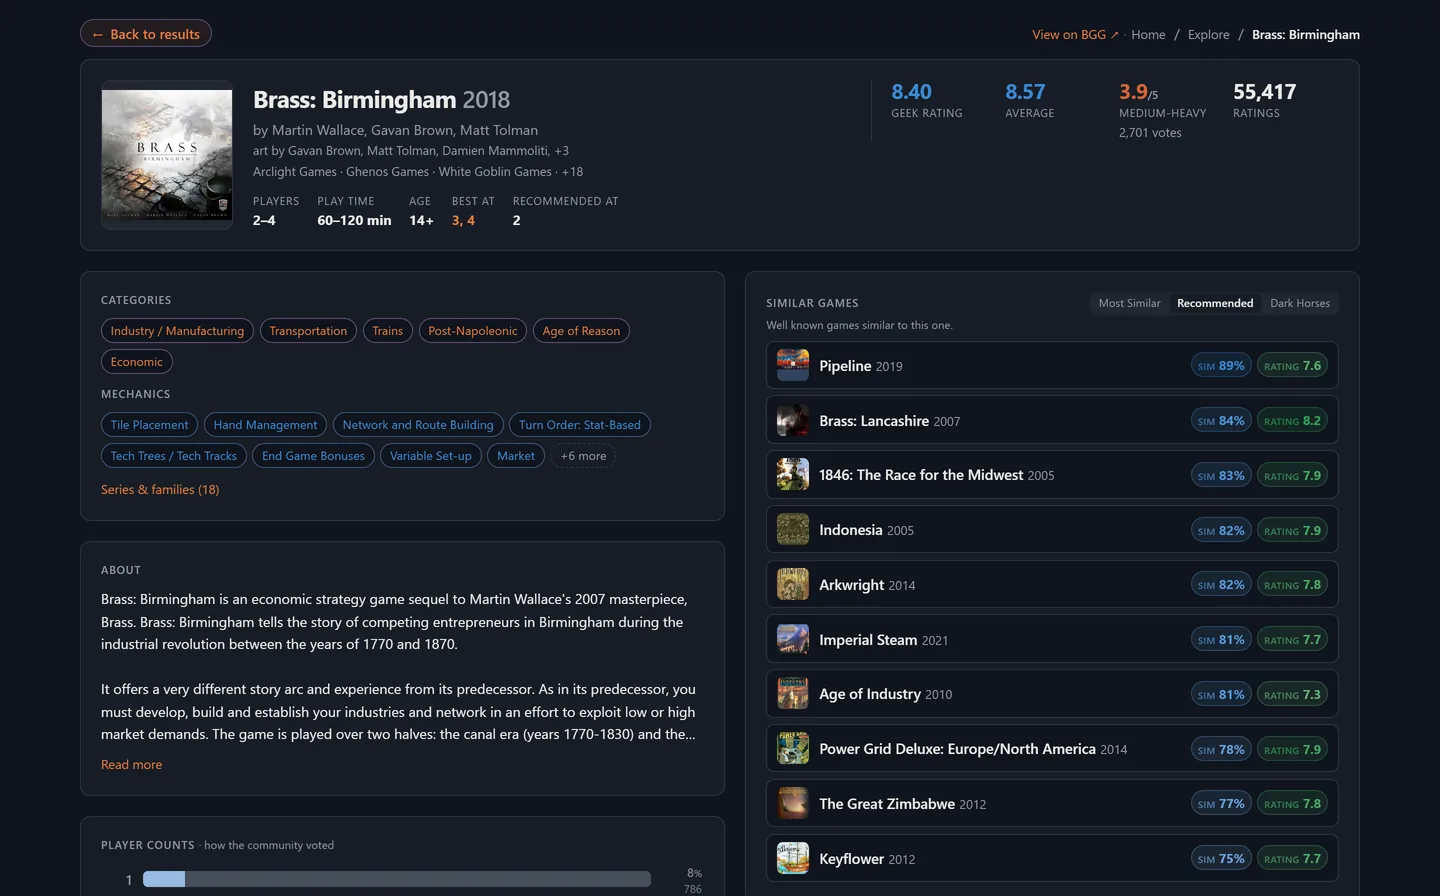
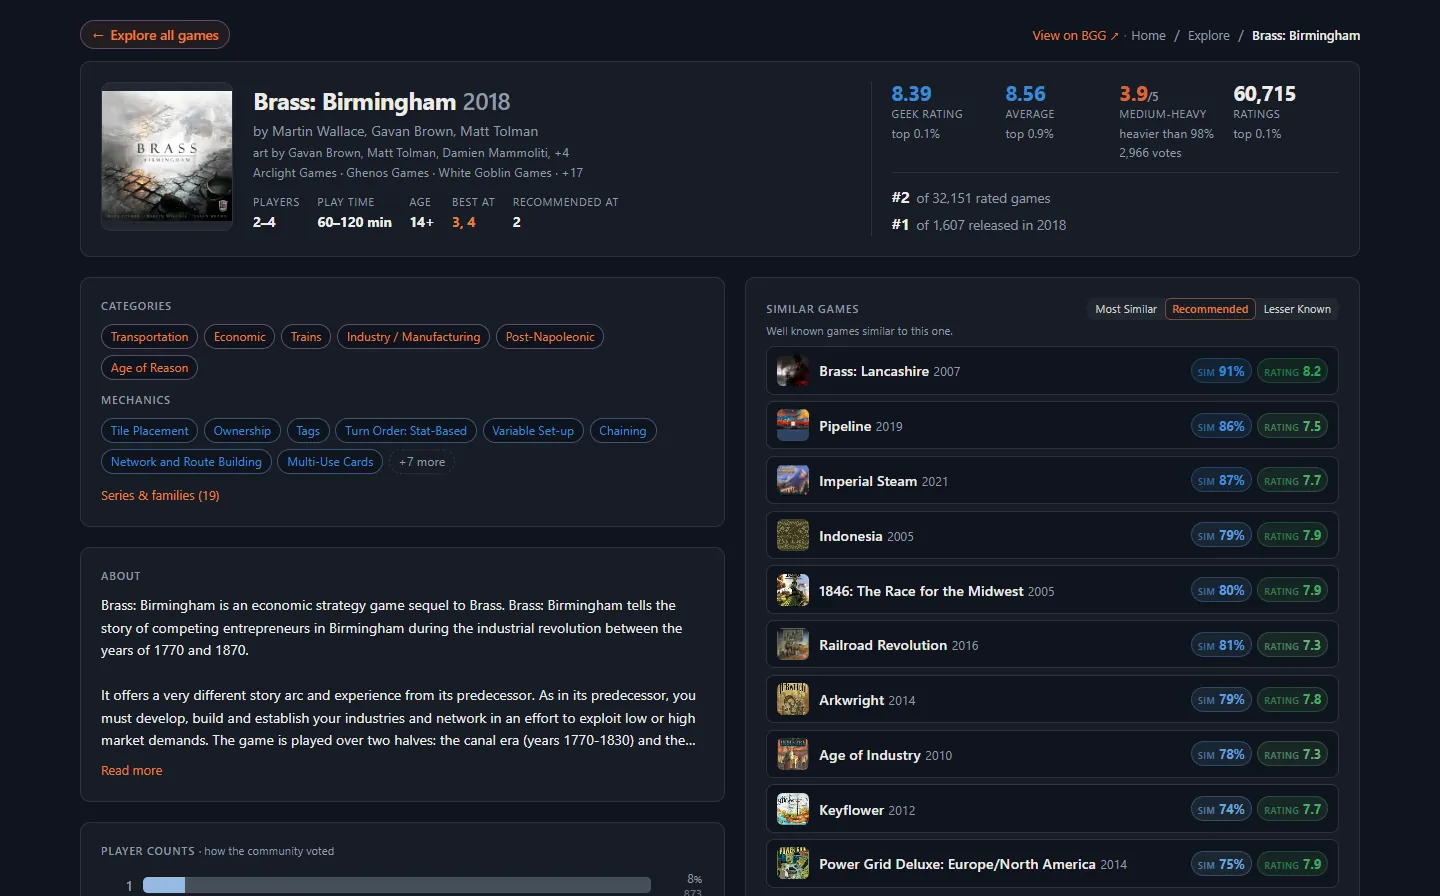
feat(landing): three stacked frames, each fading between two screens; a current game page
Back to three frames down the page, as before, each now alternating two screens
that answer the same kind of question: Explore and the Map, Discover and
Recommend, a game's page and its Lineage. The frames take turns 2.5 s apart,
each holds still under the pointer or focus, and none moves for reduced motion.
The game page capture is retaken from the current page, with its ranks.

diff --git a/src/routes/Showcase.svelte b/src/routes/Showcase.svelte
@@ -5,12 +5,13 @@
    * Real screenshots of the app's rooms and tools, taken from the running app. Not a chart
    * from content.json, not an illustration: the product's own pixels. A logged-out visitor
    * sees the chips above and can read what they could ask; this is what an answer looks like.
-   * The frame is a door into the room it shows, via /login?next=.
+   * Each frame is a door into the room it shows, via /login?next=.
    *
-   * One frame that crossfades through them (Phil, 2026-11-11), rather than six screenshots
-   * stacked down the page: a row of their names says what's here and jumps to one. It pauses
-   * while the pointer or focus is on it, and never moves on by itself for anyone who asks for
-   * less motion.
+   * Three frames down the page, each fading between two screens that answer the same kind of
+   * question (Phil, 2026-11-11): the whole catalog (Explore, the Map), finding games to play
+   * (Discover, Recommend), one game (its page, its Lineage). The frames take turns, a third of
+   * a cycle apart, so the page never changes everywhere at once. A frame holds still while the
+   * pointer or focus is on it, and none moves on by itself for anyone who asks for less motion.
    *
    * Light and dark captures, swapped on mode-watcher's `.dark` class, so the frame matches
    * the page around it rather than glowing white in a dark theme. The files live in
@@ -19,126 +20,130 @@
    * Copy is PLACEHOLDER — Phil writes the final strings.
    */
   import { onMount } from 'svelte';
-  import { SegmentedControl } from '$lib/components/ui/segmented-control';
 
   let { gate }: { gate: (url: string) => string } = $props();
 
+  type Shot = { key: string; title: string; blurb: string; href: string; alt: string };
+
   // PLACEHOLDER copy
-  const shots = [
-    {
-      key: 'explore',
-      title: 'Explore',
-      blurb: 'Filter the whole catalog down to a set, see its shape, sort it, drill in.',
-      href: '/games?wmin=3.5&ymin=2015',
-      alt: 'Explore: 826 heavyweight games since 2015, with distribution charts for rating, complexity, year and player count above a sortable table.'
-    },
-    {
-      key: 'discover',
-      title: 'Discover',
-      blurb: 'Answer a few questions, get a shortlist.',
-      href: '/discover?best=4&mechs=Cooperative+Game',
-      alt: 'Discover: cooperative games best at 4 players, narrowed to 481 matches with a ranked list.'
-    },
-    {
-      key: 'game',
-      title: 'Every game, in depth',
-      blurb: 'Ratings, player counts as the community voted, and the games most like it.',
-      href: '/games/224517',
-      alt: 'The game page for Brass: Birmingham, with ratings, categories, mechanics and a Similar Games panel.'
-    },
-    {
-      key: 'map',
-      title: 'Map',
-      blurb: 'Every game on one map, placed by what it is like.',
-      href: '/map?p=umap&c=category&s=uniform',
-      alt: 'The map: tens of thousands of board games as dots, grouped by similarity and coloured by category.'
-    },
-    {
-      key: 'recommend',
-      title: 'Recommend',
-      blurb: 'Pick a game you like, get games like it.',
-      href: '/recommend?id=224517',
-      alt: 'Recommend: games like Brass: Birmingham, as a row of box-art tiles under the chosen game.'
-    },
-    {
-      key: 'lineage',
-      title: 'Lineage',
-      blurb: 'Where a game came from, and what sits beside it.',
-      href: '/lineage?game=224517',
-      alt: 'Lineage: Brass: Birmingham in the middle, with similar earlier games above it and later ones below, linked by similarity.'
-    }
+  const frames: Shot[][] = [
+    [
+      {
+        key: 'explore',
+        title: 'Explore',
+        blurb: 'Filter the whole catalog down to a set, see its shape, sort it, drill in.',
+        href: '/games?wmin=3.5&ymin=2015',
+        alt: 'Explore: 826 heavyweight games since 2015, with distribution charts for rating, complexity, year and player count above a sortable table.'
+      },
+      {
+        key: 'map',
+        title: 'Map',
+        blurb: 'Every game on one map, placed by what it is like.',
+        href: '/map?p=umap&c=category&s=uniform',
+        alt: 'The map: tens of thousands of board games as dots, grouped by similarity and coloured by category.'
+      }
+    ],
+    [
+      {
+        key: 'discover',
+        title: 'Discover',
+        blurb: 'Answer a few questions, get a shortlist.',
+        href: '/discover?best=4&mechs=Cooperative+Game',
+        alt: 'Discover: cooperative games best at 4 players, narrowed to 481 matches with a ranked list.'
+      },
+      {
+        key: 'recommend',
+        title: 'Recommend',
+        blurb: 'Pick a game you like, get games like it.',
+        href: '/recommend?id=224517',
+        alt: 'Recommend: games like Brass: Birmingham, as a row of box-art tiles under the chosen game.'
+      }
+    ],
+    [
+      {
+        key: 'game',
+        title: 'Every game, in depth',
+        blurb: 'Ratings and ranks, player counts as the community voted, and the games most like it.',
+        href: '/games/224517',
+        alt: 'The game page for Brass: Birmingham: its ratings and ranks, categories, mechanics and a Similar Games panel.'
+      },
+      {
+        key: 'lineage',
+        title: 'Lineage',
+        blurb: 'Where a game came from, and what sits beside it.',
+        href: '/lineage?game=224517',
+        alt: 'Lineage: Brass: Birmingham in the middle, with similar earlier games above it and later ones below, linked by similarity.'
+      }
+    ]
   ];
 
-  /** Long enough to read a caption and take in a screenshot; the fade is the last ~0.6 s. */
-  const DWELL = 6000;
-  let at = $state(0);
-  let paused = $state(false);
+  /** Between one frame changing and the next: each frame changes every three of these. */
+  const BEAT = 2500;
+  /** Which screen each frame shows, and which frames are being held still. */
+  let at = $state(frames.map(() => 0));
+  let held = $state(frames.map(() => false));
   let reduced = $state(false);
-  const shot = $derived(shots[at]);
 
   onMount(() => {
     reduced = matchMedia('(prefers-reduced-motion: reduce)').matches;
-  });
-  // Moves on only while nothing's holding it; a pick restarts the wait.
-  $effect(() => {
-    void at;
-    if (paused || reduced) return;
-    const t = setTimeout(() => (at = (at + 1) % shots.length), DWELL);
-    return () => clearTimeout(t);
+    if (reduced) return;
+    let turn = 0;
+    const t = setInterval(() => {
+      const f = turn++ % frames.length;
+      if (!held[f]) at[f] = (at[f] + 1) % frames[f].length;
+    }, BEAT);
+    return () => clearInterval(t);
   });
 </script>
 
-<section
-  class="show"
-  aria-label="What you'll see"
-  aria-roledescription="carousel"
-  onpointerenter={() => (paused = true)}
-  onpointerleave={() => (paused = false)}
-  onfocusin={() => (paused = true)}
-  onfocusout={() => (paused = false)}
->
-  <SegmentedControl
-    class="picks"
-    size="md"
-    label="Screenshots"
-    options={shots.map((s, i) => ({ value: i, label: s.title }))}
-    value={at}
-    onchange={(i) => (at = i)}
-  />
-
-  <a class="frame" href={gate(shot.href)}>
-    <div class="cap" aria-live="polite">
-      <span class="t">{shot.title} <span class="arw">→</span></span>
-      <span class="b">{shot.blurb}</span>
-    </div>
-    <!-- Every screenshot in one grid cell, so the frame keeps one height and they crossfade in
-         place. Only the one showing is announced. -->
-    <div class="stage">
-      {#each shots as s, i (s.key)}
-        <div class="slide" class:on={i === at} aria-hidden={i !== at}>
-          <img class="light" src="/landing/{s.key}-light.webp" alt={i === at ? s.alt : ''} loading={i === 0 ? 'eager' : 'lazy'} width="1440" height="896" />
-          <img class="dark" src="/landing/{s.key}-dark.webp" alt="" aria-hidden="true" loading={i === 0 ? 'eager' : 'lazy'} width="1440" height="896" />
-        </div>
-      {/each}
-    </div>
-  </a>
+<section class="show" aria-label="What you'll see">
+  {#each frames as shots, f (f)}
+    {@const shot = shots[at[f]]}
+    <a
+      class="frame"
+      href={gate(shot.href)}
+      onpointerenter={() => (held[f] = true)}
+      onpointerleave={() => (held[f] = false)}
+      onfocus={() => (held[f] = true)}
+      onblur={() => (held[f] = false)}
+    >
+      <!-- Both captions in one grid cell, so the caption keeps its height as it changes. -->
+      <div class="cap">
+        {#each shots as s, i (s.key)}
+          <div class="line" class:on={i === at[f]} aria-hidden={i !== at[f]}>
+            <span class="t">{s.title} <span class="arw">→</span></span>
+            <span class="b">{s.blurb}</span>
+          </div>
+        {/each}
+      </div>
+      <div class="stage">
+        {#each shots as s, i (s.key)}
+          <div class="slide" class:on={i === at[f]} aria-hidden={i !== at[f]}>
+            <img class="light" src="/landing/{s.key}-light.webp" alt={i === at[f] ? s.alt : ''} loading="lazy" width="1440" height="896" />
+            <img class="dark" src="/landing/{s.key}-dark.webp" alt="" aria-hidden="true" loading="lazy" width="1440" height="896" />
+          </div>
+        {/each}
+      </div>
+    </a>
+  {/each}
 </section>
 
 <style>
-  .show { display: flex; flex-direction: column; gap: 1rem; }
-  /* Six names don't fit one line at phone width: let the track wrap rather than scroll. */
-  .show :global(.picks) { flex-wrap: wrap; align-self: flex-start; }
+  .show { display: flex; flex-direction: column; gap: clamp(2rem, 4vw, 3.5rem); }
 
   .frame { display: flex; flex-direction: column; gap: .7rem; text-decoration: none; color: inherit; }
-  .cap { display: flex; flex-direction: column; gap: .15rem; }
+  .cap { display: grid; }
+  .line { grid-area: 1 / 1; display: flex; flex-direction: column; gap: .15rem; }
   .t { font-size: 1.05rem; font-weight: 700; letter-spacing: -0.01em; color: var(--primary); }
   .arw { opacity: .7; }
   .b { font-size: .92rem; color: var(--muted-foreground); }
 
+  /* A screen and its caption fade together. */
   .stage { display: grid; }
-  .slide { grid-area: 1 / 1; opacity: 0; transition: opacity 600ms ease; }
-  .slide.on { opacity: 1; }
-  @media (prefers-reduced-motion: reduce) { .slide { transition: none; } }
+  .slide { grid-area: 1 / 1; }
+  .line, .slide { opacity: 0; transition: opacity 600ms ease; }
+  .line.on, .slide.on { opacity: 1; }
+  @media (prefers-reduced-motion: reduce) { .line, .slide { transition: none; } }
 
   img { display: block; width: 100%; height: auto; border: 1px solid var(--border); border-radius: var(--radius); background: var(--card);
     box-shadow: 0 1px 2px color-mix(in oklch, var(--foreground) 6%, transparent), 0 8px 24px -12px color-mix(in oklch, var(--foreground) 25%, transparent); }
